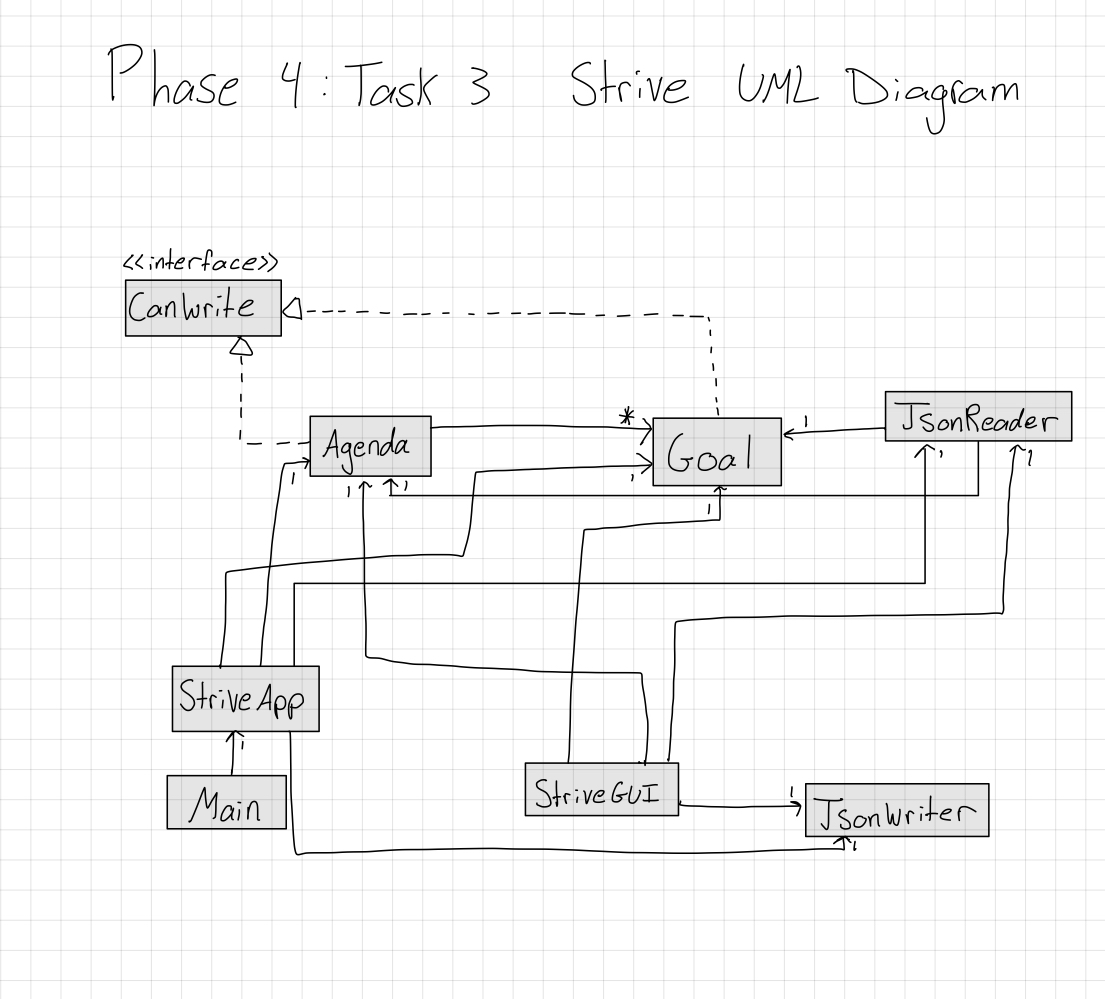
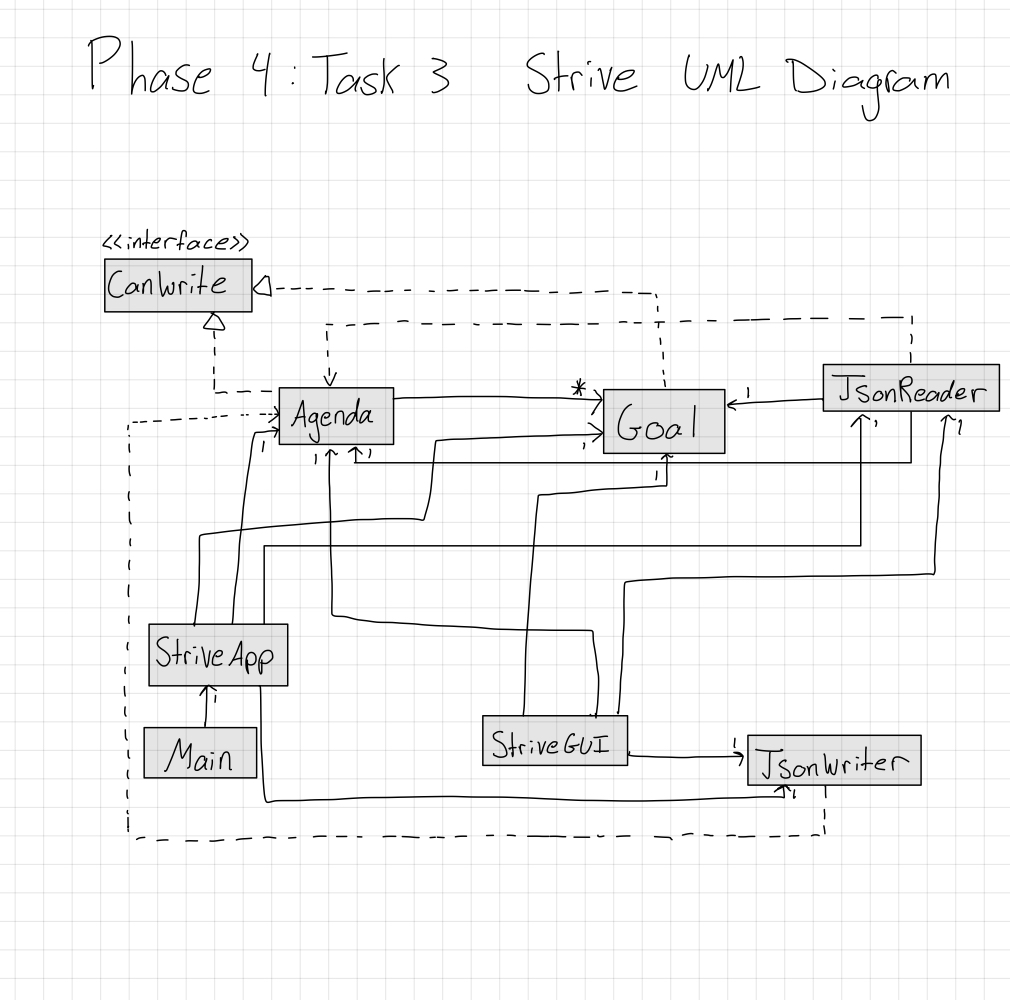
Phase 4: Task 3

diff --git a/README.md b/README.md
@@ -45,5 +45,7 @@ The methods removeGoal() and updateGoal() throw EmptyGoalListException and no  l
 ### Phase 4: Task 3
 ***Refactoring***
 
-- Reduce duplication in the StriveGUI class for buttons by making them implement an interface
-- Remove the association from StriveApp to Goal since StriveApp already has an instance of JsonReader which has a Goal
+- Reduce duplication in the StriveGUI class for buttons by extracting common functionality into methods
+- Split the Goal class into two classes. One for the specific goal and one for the enumerated timeframe
+- Remove the association from StriveApp to Goal since StriveApp already has an instance of JsonReader which has a Goal instance
+
